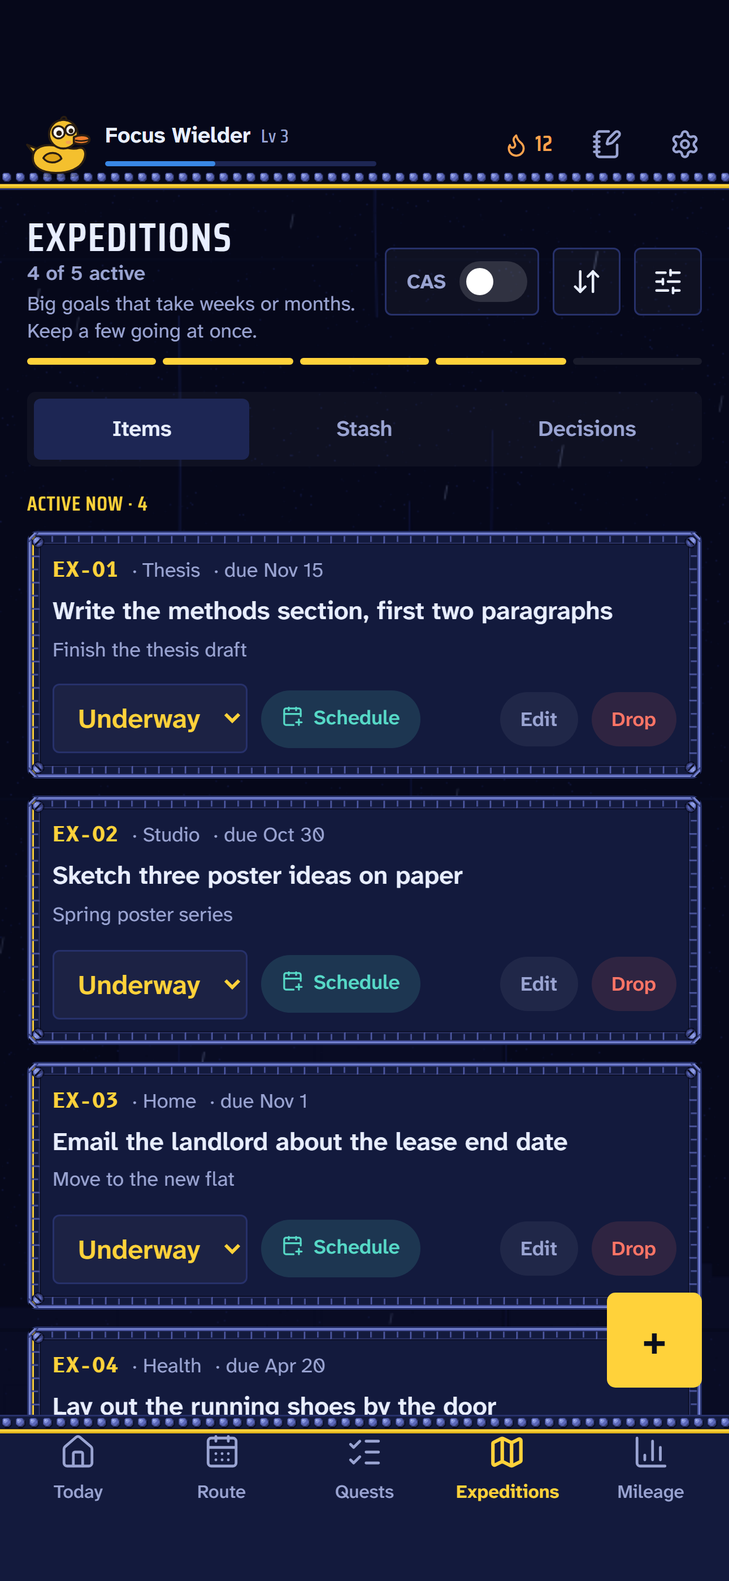
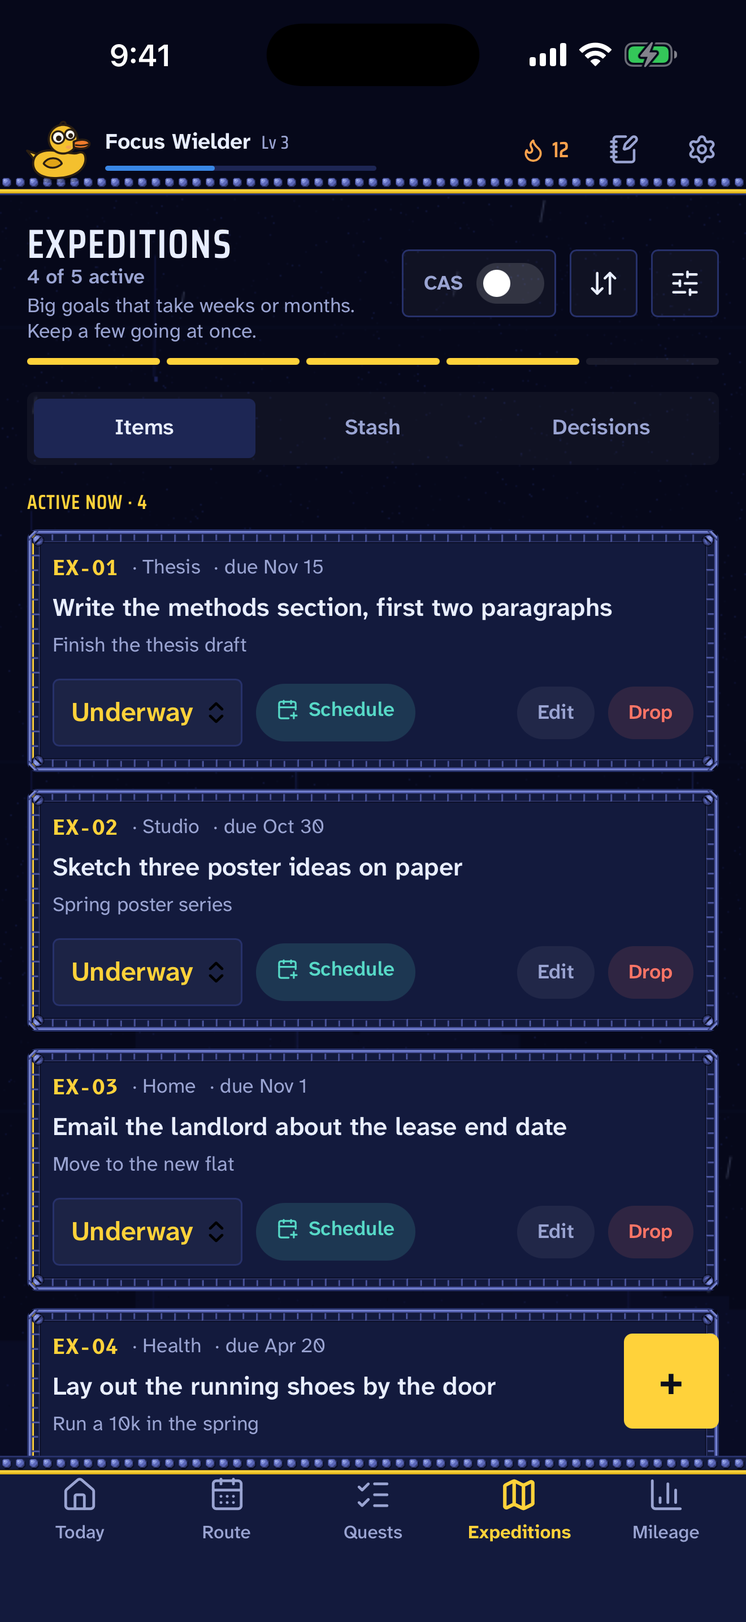
feat(ios): App Store pictures from the simulator; the sign-in check survives its own tool; the hand-off for the next loop
- client/ios/App/fastlane/screenshots/en-US: the seven listing pictures are
  now the iPhone simulator's own (1320 x 2868, real status bar, the fixed
  frames, the drawn sliders, consistent sample data), copied from the walk
  for 794c0bb as RGB by scripts/store-from-walk.mjs; each looked at.
- The sign-in check is two flows: flow.yaml (Sign in, the sheet, Connect)
  and flow-signed-in.yaml (the signed-in app, then a restart). Twice
  Maestro's own driver stopped during the switch from the sheet back to the
  app after the app had signed in; run.sh now goes on from the signed-in app
  when the server shows the code was traded, and the summary says so. A
  sign-in that does not work still fails.
- Docs for the finished state: the gates (B2, C1, G2, H1 and where it
  stands), refreshing the store pictures and the two-flow check in
  IOS_RELEASE, the hand-off and graph 4 for the next loop, the iPhone
  changelog, PLAN and WORKLOG.

Changed region(s): [[0.0, 0.0, 1.0, 0.9646], [0.8062, 0.0, 1.0, 0.1245]]

diff --git a/docs/LOOP_HANDOFF.md b/docs/LOOP_HANDOFF.md
@@ -1,96 +1,87 @@
 # Hand-off: the next loop starts here
 
-Rewritten 2026-11-19, at the end of the second iPhone loop (run 2026-11-14,
-results read 2026-11-19). A new loop reads this page and `docs/LOOP_GRAPH.md`
-first; it should not need the old chat. **The last act of every loop is to
-rewrite this page** (and redraw graph 4 in `LOOP_GRAPH.md`).
+Rewritten 2026-11-20, at the end of the third iPhone loop. A new loop reads
+this page and `docs/LOOP_GRAPH.md` first; it should not need the old chat.
+**The last act of every loop is to rewrite this page** (and redraw graph 4
+and update the lessons table in `LOOP_GRAPH.md`).
+
+## In one paragraph
+
+The iPhone app is built and proven as far as a Mac in the cloud allows. On
+every push to `ios-app`, GitHub's Mac runners build it, walk every screen in
+all seven looks in the iPhone simulator (119 of 119 confirmed), and drive a
+real sign-in end to end, including a restart. The App Store pictures are the
+simulator's own. **What is left to put it in the App Store is the owner's**:
+the Apple Developer account, the three details for the public pages, Clerk,
+the word to deploy, a real iPhone, and the submission. Expect about 1 to 2
+weeks, set mostly by Apple's account approval and review.
 
 ## How the owner wants a loop run
 
-The owner's words (2026-11-14): "a single in chat loop that keeps repeating
-until meaningful goals are achieved and then afterwards it can save all
-necessary info to start a new loop." And (2026-11-19): think about how good
-programmers use AI with self-improving loops and graphs. The answer to that is
-`docs/LOOP_GRAPH.md`: the loop as a state machine, the oracle ladder, how a
-lesson climbs from incident to automation, and the next goals as a graph.
-
-In practice (the director's reading; correct it here if the owner says otherwise):
-
-- **One loop, in one chat.** The director decides and checks; coders are
-  subagents (Opus for hard or risky code, Sonnet for simple code). Nothing goes
-  to a separate session or a task card.
-- **It keeps going round** (graph 1): plan from the goal graph, brief, read
-  every diff, run the oracles fast to slow, commit by path, learn, repeat.
-- **"Needs the owner" parks one item, not the loop.**
-- **It ends by saving**: this page, the gates, the worklog, the plan, the
-  memory notes, and the lessons table and goal graph in `LOOP_GRAPH.md`.
+"A single in chat loop that keeps repeating until meaningful goals are
+achieved and then afterwards it can save all necessary info to start a new
+loop" (2026-11-14), run as a self-improving loop drawn as graphs
+(2026-11-19: `docs/LOOP_GRAPH.md`). The director decides and checks; Opus
+coders for hard or risky code, Sonnet for simple code; nothing goes to a
+separate session or task card; "needs the owner" parks one item, not the
+loop; the loop ends by saving. The owner condenses the chat between loops,
+so everything has to be in the files.
 
 ## Where everything is
 
-| What | Where | State on 2026-11-19 |
+| What | Where | State on 2026-11-20 |
 | --- | --- | --- |
-| Production | `main` @ `9f8b769` | Deployed 2026-11-13 (all of `improve-loop`). Nothing since. |
-| The iPhone app and everything after | `ios-app`, worktree `.claude/worktrees/ios-app` | `main` + the first loop + this loop's 9 commits (`ff3926a` to `eb38659`) + the docs commit of 2026-11-19. Pushed. Not merged, not deployed. A merge to `main` is a fast-forward. **Two migrations** wait for the deploy: `20261113000000_device_sessions`, `20261113120000_calendar_feed_token`. |
-| `calendar-feed-token` | merged into `ios-app` | Its worktree and branch can be removed (owner's call). |
-| Screen walk evidence | branch `ci-shots` | Overwritten by each push that touches `client/`. Last: 154 of 154 screens confirmed (`13e2319`). |
-| Sign-in evidence | branch `ci-signin` | Overwritten by each push that touches `client/`, `server/` or `ci/`. Last (`eb38659`): the hand-off worked, the relaunch failed. |
+| Production | `main` @ `9f8b769` | Deployed 2026-11-13. Nothing since. |
+| The iPhone app and the rest | `ios-app`, worktree `.claude/worktrees/ios-app` | Pushed, not merged, not deployed. A merge to `main` is a fast-forward. Two migrations wait for the deploy. |
+| **The iPhone changes, alone** | `docs/IOS_CHANGELOG.md` | Every iPhone change by commit, and which also show on the website. |
+| The website and server changes on the same branch | `DEPLOY.md`, "What else ships with ios-app" | The feed token (old plan feed links stop at once), lint, sliders, and so on. |
+| The App Store gates | `docs/IOS_APP_STORE.md` | All verified or built except what needs the owner; the owner's steps are its last section. |
+| Shipping from Windows | `docs/IOS_RELEASE.md` | TestFlight, the walk, the sign-in check, refreshing the store pictures. |
+| Screen walk evidence | branch `ci-shots` | Overwritten by each push touching `client/`. |
+| Sign-in evidence | branch `ci-signin` | Overwritten by each push touching `client/`, `server/` or `ci/`. |
 
-Pages to read, in this order: `docs/LOOP_GRAPH.md`; `docs/IOS_APP_STORE.md`
-(the gates, the phone checklist, the owner's steps); `docs/IOS_RELEASE.md`
-(shipping from Windows, the walk, the sign-in check, the evidence branches);
-`WORKLOG.md` "Sat 2026-11-14".
+## What the third loop did (2026-11-19 and 20)
 
-## What this loop reached
-
-- **Goal 1, feed token:** reviewed, tried on a throwaway database, merged (`ff3926a`).
-- **Goal 2, every screen in the iPhone WebView:** a demo build (`npm run build:demo`: sample data, signed in, no network, steered by `/demo-route.json`; absent from the website and the real app) and a CI walk (`client/ios/ci/walk-screens.sh`, list in `screens.tsv`). First run 119 of 119 screens confirmed in seven looks; second run 154 of 154 (with the probes). Pictures on `ci-shots`.
-- **Goal 3, a real sign-in on the Mac:** `.github/workflows/ios-signin.yml` with Maestro 2.12.1 and the throwaway kit `ci/throwaway`. **The hand-off works in the simulator**: Sign in, the browser sheet, Connect this iPhone, `focusguild://` back into the app, the token traded (server log: `POST /devices/link 201`, `POST /devices/token 200`, one device listed), the signed-in Today. **The relaunch fails**: after stopping and starting the app it is on the sign-in screen (`ci-signin/screens/step-019-…jpg`).
-- **Goal 4, lint:** 40 problems to none (`8769de7`).
-- **Goal 5, website on a home screen:** the `edge:` variant (`48bea1a`). Checked in a browser, not on a phone.
-- **Goal 6, Universal Links:** built and off (`7729d97`, `docs/UNIVERSAL_LINKS.md`); needs the owner's Apple team ID, then a real phone.
-- **Also:** Mileage's bars fixed; a stray `focusguild://` link can no longer end a sign-in; tests 231 client, 654 server; lint 0.
-
-## Open, and what is known about each
-
-1. **Today's first two cards lose their drawn frames in WebKit** (Now boarding, Time available), in every look; the same card keeps its frame on the Route; Chrome draws them all. The probe (`client/src/demo/driver.ts`, rows `18-…` to `22-…` in `screens.tsv`) showed: WebKit computes the frame exactly as Chrome does (same `::after` size, border width, image); **with Scenery off every panel has its frame**; giving the two cards a layer of their own (`translateZ(0)`) brings their frames back but **takes the frames off the panels below**; more time, re-setting the attribute and re-inserting the cards change nothing. So the moving scene window (an animated canvas above the cards) upsets WebKit's painting of `border-image` on nearby pseudo-elements: a compositing bug, not a CSS mistake. Candidates for the fix, to try as probes in one Mac run: a layer on every frame (`.panel::after { transform: translateZ(0) }` or `will-change: transform`), `contain: paint` or `isolation: isolate` on the scene window, or drawing the frame as a background layer instead of `border-image`.
-2. **The session does not survive a relaunch in the simulator.** Two candidates: (a) the Keychain write fails silently in an unsigned simulator build (`CODE_SIGNING_ALLOWED=NO` gives no keychain entitlement, error -34018; `writeSession` in `native/auth.ts` swallows it), which is the likelier; (b) the first-install marker in localStorage was not yet on disk when the app was stopped, so `forgetSessionOnFirstLaunch` wiped the session. Next: log both paths to the console, and sign the simulator build ad hoc in `ios-signin.yml`; then the flow should pass. On a real, signed phone (a) cannot happen; (b) could.
-3. **The slider thumb** is a plain white pill in WebKit instead of the themed one (style `::-webkit-slider-thumb`).
-4. **Store screenshots**: the walk now writes seven at 1320 x 2868 with a real status bar to `ci-shots/store/`; they should replace `client/ios/App/fastlane/screenshots/en-US` once 1 and 3 are fixed.
-5. Small: the header says Lv 3 while the sample member's record says level 7 (the client derives it from XP; the fixture disagrees with itself).
+- **Signed in after a restart**: the sign-in job signs the simulator build to run locally; the whole flow then passed, restart included. The app was never the problem.
+- **Today's frames in WebKit**: `contain: paint` on the scene window, chosen by two probe rounds (four candidate fixes in one Mac run); confirmed in every look; probe removed.
+- **Sliders** drawn by the app in each look's colours (WebKit had shown a white pill).
+- **Store pictures** from the simulator in the listing, as RGB, via `client/scripts/store-from-walk.mjs`.
+- **Vercel** no longer builds `ios-app` or the evidence branches (it had been; production was never touched).
+- **`ci/workflow-check`** catches the kind of workflow mistake GitHub refused on 2026-11-14.
+- **Sample data**: level and trophies consistent (no Level 5 trophy on a Level 3 member).
+- **The iPhone work in its own file**, at the owner's request: `docs/IOS_CHANGELOG.md`.
+- The sign-in flow no longer waits for an "Open" prompt iOS never shows (Maestro's driver died there once, after the sign-in had worked).
 
 ## Waiting on the owner
 
-1. The operator's name, a public contact email and the province for `client/public/privacy.html`, `terms.html`, `support.html` (placeholders `{{OPERATOR_NAME}}`, `{{CONTACT_EMAIL}}`, `{{PROVINCE}}`), and a read of those pages.
-2. Clerk: which sign-in methods are on (Sign in with Apple if any social one is), and the move off development keys.
-3. The word to deploy `ios-app` (two migrations; old plan feed links stop at once: `DEPLOY.md`).
-4. The Apple Developer Program, the app record, an Admin API key and the four repository secrets; later the team ID for Universal Links.
-5. A real iPhone for the phone checklist.
-6. Whether `ANTHROPIC_API_KEY` is set on Railway; how long Railway keeps its HTTP log.
-7. Whether to remove merged worktrees and branches (`calendar-feed-token`, `improve-loop`, `improve-loop-a`, `scheduler-coverage`).
+In the order that unblocks the most (also in `docs/IOS_APP_STORE.md`, "Only the owner can do these"):
+
+1. **The Apple Developer Program** (99 USD a year; approval often 1 to 2 days), then the app record, an Admin API key and the four repository secrets (`docs/IOS_RELEASE.md`, about 30 minutes). Nothing can be uploaded before this.
+2. **The operator's name, a public contact email and the province** for `client/public/privacy.html`, `terms.html`, `support.html`, and a read of those pages.
+3. **Clerk**: which sign-in methods are on (Sign in with Apple if any social one is), and production keys, which need a domain the owner controls.
+4. **The word to deploy `ios-app`** (two migrations; old plan feed links stop at once: `DEPLOY.md`).
+5. **A real iPhone** for TestFlight and the 11-item phone checklist.
+6. Smaller: whether `ANTHROPIC_API_KEY` is set on Railway; how long Railway keeps its HTTP log; whether to remove merged worktrees and branches (`calendar-feed-token`, `improve-loop`, `improve-loop-a`, `scheduler-coverage`); later, the Apple team ID for the Universal Link sign-in (`docs/UNIVERSAL_LINKS.md`).
 
 ## A new loop can reach these without the owner
 
-Graph 4 in `docs/LOOP_GRAPH.md` draws these with their dependencies.
+Graph 4 in `docs/LOOP_GRAPH.md` draws them with what they unblock.
 
-1. **G1, the frames on Today in WebKit**: add the candidate fixes as probes, read one Mac run, apply the winner in `index.css`, confirm in the walk, then remove the probe and its rows (G5).
-2. **G2, the session after a relaunch**: console lines for the Keychain write and the install marker; ad-hoc signing of the simulator build in `ios-signin.yml`; the flow passes, gate B2 verified in the simulator.
-3. **G6, the slider thumb in WebKit.**
-4. **G3, the store screenshots from the simulator** into fastlane (after G1 and G6); gate G2 verified.
-5. **Raise the lessons in `LOOP_GRAPH.md` graph 3 by one rung** where it is cheap: a YAML check script for workflows, a test on Mileage's bar heights.
-6. **When the owner answers item 1 above:** fill the three pages, recheck the review notes, retake the screenshots.
-
-A fair end condition: G1, G2, G6 and G3 done and checked on the Mac; lessons table updated; this page rewritten.
+1. **L1, more of the phone checklist in the simulator** (extend `client/ios/ci/signin/flow.yaml` or add a second flow): Sign out (the server lists no device afterwards), Delete account (the member is gone on the server), the quest editor and the jot box with the keyboard up (screenshots: the field and the Add/Cancel bar stay visible), an outside link opening in the in-app sheet and Done returning.
+2. **L2, the timer's notification in the simulator**: start a short focus session in the demo or sign-in build, background the app, and screenshot the notification (simulators show local notifications).
+3. **The moment the owner sends the three details**: fill the three public pages, recheck the review notes in `client/ios/App/fastlane/metadata`, push.
+4. **The moment the owner has the Apple account**: walk them through `docs/IOS_RELEASE.md`, run the TestFlight job, read its result (`docs/IOS_RELEASE.md`, "What is most likely to fail the first time").
+5. Raise a lesson a rung where it is cheap (graph 3's table in `LOOP_GRAPH.md`).
 
 ## The prompt that starts it
 
-Paste this into a new chat on this repository (or after condensing this one):
-
 ```text
-Run a single in-chat loop on Focus Guild, as director: you decide and check, Sonnet coders do the simpler code, Opus coders the harder code. Start by reading docs/LOOP_HANDOFF.md and docs/LOOP_GRAPH.md on branch ios-app (worktree .claude/worktrees/ios-app) and the project memory. Take the goals under "A new loop can reach these without the owner" in the order graph 4 allows, and keep going round graph 1 (brief coders, read every diff, run the oracle ladder fast to slow, look at the result in a browser or in the Mac build's screenshots, commit by path, promote each lesson one rung) until they are done and checked or nothing meaningful is left that you can reach. Anything that needs me: park it, list it, and carry on with the next goal. Do the work in this chat; do not hand pieces to separate sessions or task cards. Do not deploy or merge to main; pushing ios-app for Mac builds is fine. When the loop ends, rewrite docs/LOOP_HANDOFF.md, graph 4 and the lessons table in docs/LOOP_GRAPH.md, the gates in docs/IOS_APP_STORE.md, WORKLOG.md, PLAN.md and the memory notes so the next loop can start from them.
+Run a single in-chat loop on Focus Guild, as director: you decide and check, Sonnet coders do the simpler code, Opus coders the harder code. Start by reading docs/LOOP_HANDOFF.md and docs/LOOP_GRAPH.md on branch ios-app (worktree .claude/worktrees/ios-app) and the project memory. Take the goals under "A new loop can reach these without the owner" in the order graph 4 allows, and keep going round graph 1 (brief coders, read every diff, run the oracle ladder fast to slow, look at the result in a browser or in the Mac build's screenshots, commit by path, promote each lesson one rung) until they are done and checked or nothing meaningful is left that you can reach. Anything that needs me: park it, list it, and carry on with the next goal. Do the work in this chat; do not hand pieces to separate sessions or task cards. Do not deploy or merge to main; pushing ios-app for Mac builds is fine. Keep iPhone changes recorded in docs/IOS_CHANGELOG.md, apart from the other changes. When the loop ends, rewrite docs/LOOP_HANDOFF.md, graph 4 and the lessons table in docs/LOOP_GRAPH.md, the gates in docs/IOS_APP_STORE.md, WORKLOG.md, PLAN.md and the memory notes so the next loop can start from them.
 ```
 
 ## How to read the Mac's results without a GitHub login
 
 - Evidence: `git fetch origin ci-shots ci-signin`, then `git show origin/ci-signin:signin-summary.txt`, `git show origin/ci-shots:walk-summary.txt`, or `git archive origin/ci-shots | tar -x -C <folder>` for the pictures.
-- Waiting for a run: poll `git ls-remote origin refs/heads/ci-shots` (it changes when the run publishes). The anonymous GitHub API allows 60 calls an hour; use it only for step names: `https://api.github.com/repos/PaperclipMaximalist/focus-guild/actions/runs?branch=ios-app`, then `/actions/runs/<id>/jobs`.
-- A workflow GitHub refuses shows as a run named by its file path with zero jobs: parse workflow files before pushing (a `yaml` parser in a scratch folder works).
+- Waiting for a run: poll `git ls-remote origin refs/heads/ci-shots` (it changes when the run publishes). The anonymous GitHub API allows 60 calls an hour; use it for step names only.
+- Before pushing a workflow change: `cd ci/workflow-check && npm ci && npm run check`.
+- A sign-in run that fails: if `signin-summary.txt` shows the token traded and one device, and `screens/simulator-end.jpg` shows the signed-in Today, the app worked and the test tool did not.

diff --git a/docs/IOS_APP_STORE.md b/docs/IOS_APP_STORE.md
@@ -19,7 +19,7 @@ what is left can only be done by the owner (the last section).
 
 Status: `open`, `built` (written, not yet proven), `verified` (how is in the last column).
 
-**Where it stands (2026-11-19, after the second loop):** every screen has been seen in the iPhone simulator's own WebView, in all seven looks (a CI walk, 154 of 154 screens confirmed), and one real sign-in ran there: the browser sheet, Connect and the `focusguild://` hand-off work; the session is lost after a relaunch in the simulator (open, see B2). Lint is clean. One cosmetic fault is open: on Today the first two cards lose their drawn frames in WebKit (C1). Nothing has been tried on a real iPhone, the TestFlight job has never run, and the three public pages still hold placeholders. How the loops run: `docs/LOOP_GRAPH.md`; what is next: `docs/LOOP_HANDOFF.md`.
+**Where it stands (2026-11-20, after the third loop):** everything that can be built and checked without the owner is done. In the iPhone simulator on GitHub's Mac runners: every screen in all seven looks (a CI walk on every push, 119 of 119 screens confirmed) and a real sign-in end to end, including still being signed in after a restart. Lint is clean; the store pictures are the simulator's own. Nothing has been tried on a real iPhone, the TestFlight job has never run (no Apple account yet), and the three public pages still hold placeholders: the owner's steps are the last section of this page. The iPhone changes on their own: `docs/IOS_CHANGELOG.md`. How the loops run: `docs/LOOP_GRAPH.md`; what is next: `docs/LOOP_HANDOFF.md`.
 
 | # | Gate | Status | Verified by |
 | --- | --- | --- | --- |
@@ -28,9 +28,9 @@ Status: `open`, `built` (written, not yet proven), `verified` (how is in the las
 | A3 | `Info.plist`: URL scheme, export-compliance answer, upright only, no unused permission strings | verified | Built and launched in the simulator, and the `focusguild://` scheme carried a real sign-in back into the app there (iOS sign-in workflow, 2026-11-14). |
 | A4 | Privacy manifest (`PrivacyInfo.xcprivacy`) for the app target | built | In the app target's Resources; declares email, user ID and the member's own content, linked, not tracking. The TestFlight job fails if it is missing from the archive. Never built. |
 | B1 | Server: device link + token exchange (PKCE, one use, two minutes), device tokens accepted by `requireUser`, list and revoke | verified | 607 server tests; the whole story by curl on a throwaway database (good and wrong verifier, reuse, expiry, revoke, a device token refused for adding devices). Not run: against Neon, or with Clerk configured. |
-| B2 | Client: the app's sign-in screen, the website's `/app-link` confirm page, token in the Keychain, sign out | partly verified | Browser checks as before, and **one real sign-in in the iPhone simulator** (`.github/workflows/ios-signin.yml`, Maestro, against a server and website on the Mac runner in development sign-in): Sign in opened the browser sheet, Connect this iPhone sent the code back through `focusguild://`, the app traded it (server: `POST /devices/token 200`, one device listed) and showed the signed-in Today. **Failed: after a relaunch the app was signed out** (likeliest cause: an unsigned simulator build cannot write the Keychain; see `docs/LOOP_HANDOFF.md`). Not checked: a phone, and `/app-link` with Clerk on. |
+| B2 | Client: the app's sign-in screen, the website's `/app-link` confirm page, token in the Keychain, sign out | verified in the simulator | Browser checks as before, and **a real sign-in in the iPhone simulator on every push** (`.github/workflows/ios-signin.yml`, Maestro, against a server and website on the Mac runner in development sign-in): Sign in opens the browser sheet, Connect this iPhone sends the code back through `focusguild://`, the app trades it (server: `POST /devices/token 200`, one device listed), shows the signed-in Today, and **is still signed in after a restart** (the Keychain; passed in full for `1b7d9fc`, once the simulator build was signed to run locally). In two later runs Maestro's own driver stopped during the switch from the sheet back to the app after the app had signed in; the check now goes on from the signed-in app in that case and says so in its summary. Not checked: a phone, and `/app-link` with Clerk on. |
 | B3 | The API answers the app's origin (`capacitor://localhost`) | verified | Preflight from that origin for a `DELETE` with `Authorization` is allowed; another origin is not. Live only after the server is deployed. |
-| C1 | Safe areas: nothing under the notch, the status bar or the home indicator, in every look | verified in the simulator, one open fault | **Seen in WKWebView**: the CI walk photographs 17 screens in each of the seven looks on an iPhone 17 Pro Max simulator (iOS 26.5) with its real status bar and Dynamic Island; nothing sits under the island, the status bar or the home indicator, including the full-screen timer. **Open:** on Today the Now boarding and Time available cards lose their drawn frames in WebKit (a compositing fault with the moving scene window; not a safe-area problem). Not checked: a phone. |
+| C1 | Safe areas: nothing under the notch, the status bar or the home indicator, in every look | verified in the simulator | **Seen in WKWebView** on every push: the CI walk photographs 17 screens in each of the seven looks on an iPhone 17 Pro Max simulator (iOS 26.5) with its real status bar and Dynamic Island; nothing sits under the island, the status bar or the home indicator, including the full-screen timer. Today's panels had lost their drawn frames in WebKit; fixed on 2026-11-19 (`contain: paint` on the scene window) and confirmed in every look. Sliders are drawn by the app since the same day (WebKit had shown a white pill). Not checked: a phone. |
 | C2 | Status bar, launch screen hand-off, keyboard, links that leave the app open in the in-app browser | partly verified | Status bar text and the launch hand-off seen in every simulator picture; the browser sheet opened and closed during the simulator sign-in. The keyboard and scrolling only exist on a phone: see "Check on a phone". |
 | C3 | No web leftovers in the app: service worker, Clerk, keyboard-shortcut hints, share target | verified in a browser | In app mode: no service worker is registered, Clerk is never mounted, the shortcut help and the share target are gone, file downloads are replaced by Copy, and no text names another platform. The website keeps all of them. |
 | C4 | Fonts ship inside the bundle (first paint does not wait on Google Fonts) | verified | The build has no reference to Google's font hosts; in the browser the five families load from the bundle, including Cinzel on Spire Guild and Oxanium on Star Guild. Adds about 416 KB. |
@@ -41,8 +41,8 @@ Status: `open`, `built` (written, not yet proven), `verified` (how is in the las
 | F1 | CI: every push builds the app for the simulator on a Mac runner | verified | Every push that touches `client/` compiles, launches, then walks every screen of the demo build in seven looks (`client/ios/ci/walk-screens.sh`); the iOS sign-in workflow drives a real sign-in. Results readable without signing in: the branches `ci-shots` and `ci-signin`. |
 | F2 | CI: one manual run archives, signs and uploads to TestFlight once the owner's secrets exist | built | Job `testflight`, started by the Run button or a tag `ios-v1.0.0`. Four secrets, Apple's cloud signing, no certificate to manage. Steps for the owner in `docs/IOS_RELEASE.md`. **Never run: needs the Apple account.** |
 | G1 | Store listing text (name, subtitle, description, keywords, review notes, privacy answers) | verified | `client/ios/App/fastlane/metadata`: lengths counted (name 11/30, subtitle 26/30, keywords 97/100); every sentence of the description and the review notes rechecked against the code after E1, E3 and D1 landed, and two wrong claims corrected. The privacy, age and export answers are in "Answers for App Store Connect" below. True only once Clerk is set as the owner's step 4 says. |
-| G2 | Screenshots at the size App Store Connect requires (6.9-inch iPhone) | built | Two sets: `npm run store:shots` (desktop browser, seven at 1290 x 2796, in `client/ios/App/fastlane/screenshots/en-US`), and since 2026-11-14 the simulator walk writes seven at 1320 x 2868 with a real status bar to `ci-shots/store/`. The simulator set should replace the fastlane folder once the frames on Today (C1) and the slider thumb are fixed. |
-| H1 | Tests, typecheck, lint and a production build pass on the branch | verified | 654 server tests, 231 client tests, both typechecks, lint with no problems (the forty older ones were fixed on 2026-11-14), the website and app builds; checked on the exact commit in a clean checkout. |
+| G2 | Screenshots at the size App Store Connect requires (6.9-inch iPhone) | verified | Seven pictures from the iPhone simulator itself, 1320 x 2868 with its real status bar, in `client/ios/App/fastlane/screenshots/en-US`; copied from the walk's `ci-shots/store/` and written as RGB (App Store Connect can refuse an alpha channel) by `node scripts/store-from-walk.mjs`; each looked at. After any visible change, refresh them the same way (`docs/IOS_RELEASE.md`). The older desktop-browser script, `npm run store:shots`, stays as a fallback. |
+| H1 | Tests, typecheck, lint and a production build pass on the branch | verified | 654 server tests, 235 client tests, both typechecks, lint with no problems (the forty older ones were fixed on 2026-11-14), the website and app builds; workflow files checked before each push by `ci/workflow-check`. |
 
 ## How to build
 

diff --git a/docs/LOOP_GRAPH.md b/docs/LOOP_GRAPH.md
@@ -121,6 +121,7 @@ Lessons from the two iPhone loops and the rung each has reached:
 | The native slider thumb was a white pill in WebKit | Mac walk (rung E) | fixed: every slider drawn by one style (`index.css`, `lib/rangeFill.ts`, tested) |
 | Vercel built every pushed branch; the evidence branches failed | the owner, in Vercel | config: `client/vercel.json` and a `vercel.json` on each evidence branch turn those deployments off |
 | A coder's "done" was wrong | director review | rule: read every diff, look every time |
+| Maestro's driver died during the sheet-to-app switch after the sign-in had worked (twice) | Mac sign-in (rung E) | automation: the check is two flows; `run.sh` goes on from the signed-in app when the server shows the code was traded, and says so in the summary |
 | The workflow file was refused, zero jobs ran | GitHub, after a push | automation: `ci/workflow-check` (`npm ci && npm run check`) parses every workflow and flags the runner context in a job's env; it reports the refused file of 2026-11-14 |
 | Polling the GitHub API ran down the 60-an-hour limit | the API | rule: wait on `git ls-remote` of the evidence branch |
 | The computer slept mid-run | a stalled test | rule: ask the app to keep the machine awake for long waits |
@@ -128,25 +129,30 @@ Lessons from the two iPhone loops and the rung each has reached:
 
 ## Graph 4: the next loop's goals
 
-Arrows mean "needs". Grey goals wait on the owner and are parked, not blocking.
+Redrawn 2026-11-20, after the third loop. Arrows mean "needs". Everything the
+loops could reach without the owner for the App Store is done (G1, G2, G3, G6
+of the previous graph); what is left is mostly the owner's (grey), and what
+the loop can still add is more of the phone checklist proven in the simulator.
 
 ```mermaid
 flowchart TD
-    G1["G1 Fix the frames on Today in WebKit<br/>probe a layer on every frame, or isolate the scene"] --> G3
-    G2["G2 Keep the session after a relaunch<br/>log the Keychain write; sign the simulator build"] --> G2b["Gate B2 verified in the simulator"]
-    G3["G3 Store screenshots from the simulator<br/>ci-shots/store into fastlane, 1320 x 2868"] --> G4
-    G1 --> G5["G5 Remove the probe and its screen rows"]
-    G6["G6 Slider thumb styled for WebKit"] --> G3
-    G4["Gate G2 verified"]
-    O1["Owner: operator name, email, province"]:::owner --> G7["Fill the three public pages, retake shots"]
-    O2["Owner: Apple account and secrets"]:::owner --> G8["TestFlight job, then the phone checklist"]
-    O3["Owner: deploy ios-app"]:::owner --> G8
+    O1["Owner: Apple Developer account,<br/>app record, API key, 4 secrets"]:::owner --> T["TestFlight job runs"]
+    O2["Owner: name, email, province<br/>for the three public pages"]:::owner --> P["Loop: fill the pages,<br/>recheck review notes"]
+    O3["Owner: Clerk sign-in methods<br/>(Sign in with Apple?), production keys"]:::owner --> D
+    O4["Owner: the word to deploy ios-app"]:::owner --> D["Deploy: main = ios-app<br/>two migrations"]
+    P --> D
+    D --> T
+    T --> F["Owner: the phone checklist<br/>on a real iPhone"]:::owner
+    F --> S["Owner: submit in App Store Connect"]:::owner
+    S --> R["App Review"]
+    L1["Loop: more of the phone checklist in the simulator<br/>Sign out, Delete account, keyboard, outside links"] --> F
+    L2["Loop: a local notification from the timer<br/>seen in the simulator"] --> F
     classDef owner fill:#eee,stroke:#999,color:#333
 ```
 
-G1, G2 and G6 touch different files and can run at the same time. G3 waits for
-G1 and G6, because the store pictures should show the frames and the themed
-slider.
+L1 and L2 touch different files (the Maestro flow and a new flow or step) and
+can run at the same time. The loop's part of P starts the moment the owner
+sends the three details.
 
 ## How to start a loop from this page
 

diff --git a/docs/IOS_RELEASE.md b/docs/IOS_RELEASE.md
@@ -232,6 +232,23 @@ again. It is never written by pull requests. To read it without a GitHub
 login: `git fetch origin ci-shots`, then `git show FETCH_HEAD:walk-summary.txt`
 or `git archive FETCH_HEAD | tar -x -C <a folder>`.
 
+## Refreshing the App Store screenshots
+
+The listing's seven pictures (`client/ios/App/fastlane/screenshots/en-US`)
+come from the simulator walk. After a change anyone would see in them, push,
+wait for the walk to publish `ci-shots`, then:
+
+```bash
+git fetch origin ci-shots
+mkdir -p ../walk-store && git archive origin/ci-shots store | tar -x -C ../walk-store
+cd client && node scripts/store-from-walk.mjs ../../walk-store/store
+```
+
+The script checks each picture is 1320 x 2868, refuses one with see-through
+pixels, and writes it as RGB (App Store Connect can refuse an alpha channel).
+Look at them before committing. The `store-listing-text` job uploads them
+with the listing.
+
 ## The sign-in check (workflow "iOS sign-in")
 
 A second workflow, `.github/workflows/ios-signin.yml`, runs on pushes to
@@ -248,6 +265,22 @@ Its evidence goes to the branch `ci-signin` the same way: screenshots of each
 stage, `signin-summary.txt` with a verdict, the server's log, Maestro's
 output. This check uses development sign-in, so it proves the hand-off between
 the browser sheet and the app, not Clerk.
+
+Two things learned running it: the app it tests is signed "to run locally"
+(no Apple account needed), because an unsigned simulator build cannot use
+the Keychain and so forgets the sign-in on a restart; and Maestro can stop
+by itself while the screen switches from the browser sheet back to the app.
+For the second, the check is in two flows (`flow.yaml` for the hand-off,
+`flow-signed-in.yaml` for the signed-in app and the restart): when Maestro
+stops during the hand-off and the server shows the app traded its code,
+`run.sh` runs the second flow on its own, and `signin-summary.txt` says so on
+its Flow line. When a run still fails, read `signin-summary.txt` first: if the
+server traded the token and lists one device, and `screens/simulator-end.jpg`
+shows the signed-in Today, the app worked and the test tool did not.
+
+Neither evidence branch is built by Vercel: each carries a `vercel.json`
+that turns automatic deployments off, and `client/vercel.json` does the same
+for `ios-app`. Production deploys from `main` only.
 
 ## What is most likely to fail the first time
 

diff --git a/PLAN.md b/PLAN.md
@@ -15,16 +15,17 @@ table below), with one migration (`20261019000000_one_sitting_and_repeat`,
 additive). The only thing built and not yet out is the iPhone app (next
 paragraph); one other piece of work waits on a decision (see "Parked branches").
 
-**Status 2026-11-19, the iPhone app:** branch `ios-app` (worktree `.claude/worktrees/ios-app`,
-on top of `main`, pushed, not merged) turns the client into an iPhone app, and since the
-second loop (2026-11-14) also holds the calendar feed token, the website's home-screen
-notch fix, clean lint, and an off-by-default Universal Link sign-in. Every screen has been
-seen in the iPhone simulator in all seven looks and one real sign-in ran there; open:
-the session is lost after a relaunch in the simulator, and two cards on Today lose their
-frames in WebKit. What is left beyond that is the owner's (Apple account, deploy, the
-public pages' placeholders, Clerk). The gates and the steps: `docs/IOS_APP_STORE.md`;
-the next loop: `docs/LOOP_HANDOFF.md` and `docs/LOOP_GRAPH.md`. Two migrations wait for
-the deploy (`20261113000000_device_sessions`, `20261113120000_calendar_feed_token`).
+**Status 2026-11-20, the iPhone app:** branch `ios-app` (worktree `.claude/worktrees/ios-app`,
+on top of `main`, pushed, not merged) turns the client into an iPhone app. Everything that
+can be built and checked without the owner is done: every screen seen in the iPhone
+simulator in all seven looks on every push, a real sign-in end to end there (restart
+included), clean lint, store pictures from the simulator. What is left is the owner's:
+the Apple Developer account and secrets, the public pages' three details, Clerk, the word
+to deploy, a real iPhone, the submission. The iPhone changes alone: `docs/IOS_CHANGELOG.md`;
+the website and server changes that share the branch: `DEPLOY.md`, "What else ships with
+ios-app". The gates and the steps: `docs/IOS_APP_STORE.md`; the next loop:
+`docs/LOOP_HANDOFF.md` and `docs/LOOP_GRAPH.md`. Two migrations wait for the deploy
+(`20261113000000_device_sessions`, `20261113120000_calendar_feed_token`).
 
 ---
 

diff --git a/WORKLOG.md b/WORKLOG.md
@@ -376,6 +376,7 @@ Rebuilt from file timestamps; the phase log lists Phases 2–6 as done this day.
   - `eecd9d0` **Today's frames in WebKit**: `contain: paint` on the scene window. The probe tried four fixes in one Mac run: a layer per frame took every frame on the page away; containing the scene window brought all of them back with the scene still moving. Probe and rows removed. **Vercel** had been building every pushed branch (the evidence branches failed): `client/vercel.json` and a `vercel.json` on each evidence branch turn that off; the next pushes showed no Vercel status at all. Production was never touched.
   - `921a7fa` Sample data: the stored level matches the XP.
   - **Separate iPhone record**: `docs/IOS_CHANGELOG.md` lists only the iPhone work (and which of it also shows on the website); `DEPLOY.md` "What else ships with ios-app" lists the website and server changes that share the branch.
+- The last two sign-in runs (`eecd9d0`, `794c0bb`) failed the same way although the app had signed in each time (server: token traded, one device; end screen: the signed-in Today): Maestro's driver stops during the switch from the browser sheet back to the app. The check is now two flows, and `run.sh` goes on from the signed-in app when the server shows the code was traded, saying so in the summary. Trophy room: the sample member (Level 3) had the Level 5 trophy unlocked; now Chaos Agent, totals unchanged. Store pictures copied from the walk for `794c0bb` (119 of 119 screens).
 - What looking caught: the sign-in run for `eecd9d0` failed although the app had signed in (the end screen is the signed-in Today and the server traded the token): Maestro's driver died while an optional step looked for an "Open" prompt that iOS never shows. The step was removed.
 
 

diff --git a/docs/IOS_CHANGELOG.md b/docs/IOS_CHANGELOG.md
@@ -60,6 +60,7 @@ these").
 | `60e1e37` | The demo build (`npm run build:demo`: sample data, signed in, no network; absent from the real builds) and a walk of every screen in every look in the simulator (`client/ios/ci/walk-screens.sh`), pictures on branch `ci-shots` |
 | `0e2d656` | `.github/workflows/ios-signin.yml`: one real sign-in in the simulator with Maestro, against a throwaway server and website on the same Mac (`ci/throwaway`); evidence on branch `ci-signin` |
 | `eb38659`, `b768bc5` | Fixes to that workflow; the simulator build for it is signed to run locally, so the Keychain keeps the session; `ci/workflow-check` checks workflow files before a push |
+| this loop | The sign-in check in two flows (`flow.yaml`, `flow-signed-in.yaml`), so a stop of Maestro's own driver during the hand-off does not hide a sign-in that worked; the summary says when that happened |
 | `13e2319`, `b768bc5`, `eecd9d0` | A two-round probe that found why WebKit dropped Today's frames; removed once fixed |
 | `eecd9d0` | Vercel no longer builds `ios-app` or the two evidence branches |
 
